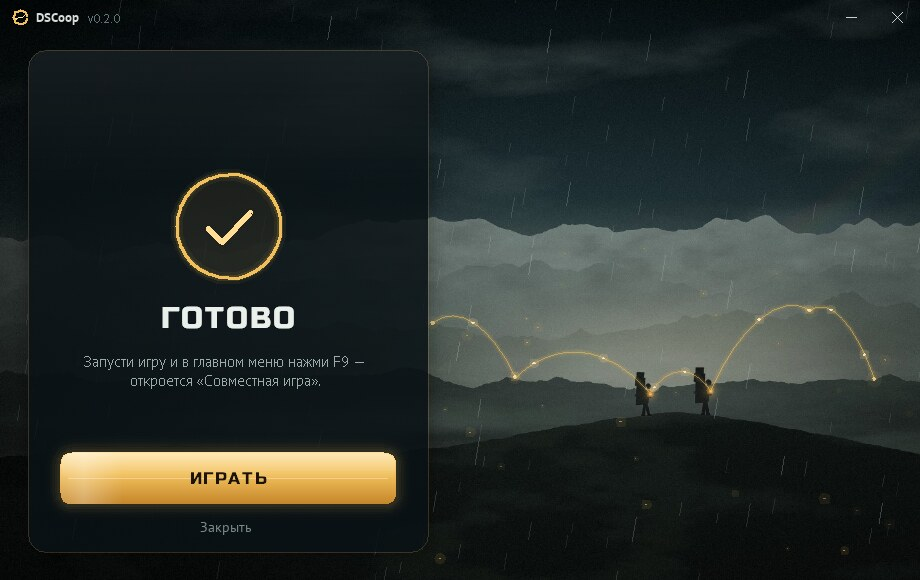
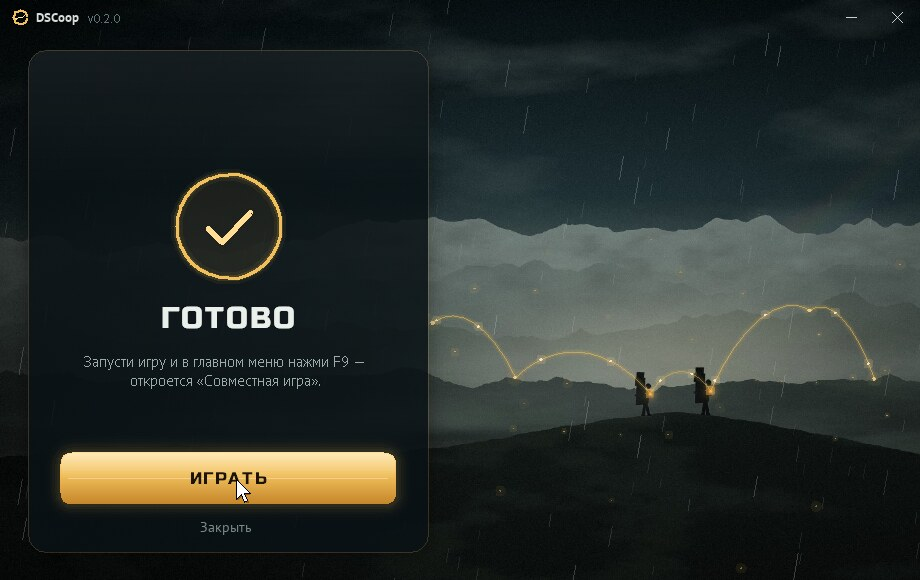
Установщик: запись демо-видео и аккуратное сокращение пути
- DSCoopSetup.exe /preview=DIR рисует сценарий игрока (курсор, ввод ника,
  установка, «Готово») ровно в 30 кадров в секунду в PNG, ничего не ставя.
- scripts/record-installer-demo.sh: запись под Wine + Xvfb, кадры на фоне
  рабочего стола со скруглёнными углами и тенью (tools/art/compose_demo.py),
  MP4 и GIF через ffmpeg.
- Путь к игре в карточке сокращается по папкам одинаково на Windows и Wine.
- Скриншоты в docs/img обновлены.

Claude-Session: https://claude.ai/code/session_01SfMFk6cMkM7MvqkwSyYva5

Changed region(s): [[0.0609, 0.7759, 0.1217, 0.869], [0.7609, 0.6517, 0.7913, 0.6828], [0.2435, 0.8379, 0.2739, 0.869]]

diff --git a/src/installer/win/ui.cpp b/src/installer/win/ui.cpp
@@ -298,6 +298,14 @@ struct App {
     std::array<float, 5> pulse{};
     std::mt19937 rng{20261029};
 
+    // /preview: deterministic demo recording (scripted cursor, simulated install, frames to PNG)
+    bool preview = false;
+    float cursorX = 780, cursorY = 470;
+    bool cursorDown = false;
+    int previewFocus = kNone;
+    float previewWorkerStart = -1;
+    std::unordered_map<std::wstring, std::wstring> fitCache;
+
     // gdi+
     ULONG_PTR gdipToken = 0;
     std::unique_ptr<Fonts> fonts;
@@ -589,6 +597,41 @@ void drawRain(Graphics& gr) {
 }
 
 // =============================================================================== widgets
+std::wstring editText(HWND e) {
+    const int n = GetWindowTextLengthW(e);
+    std::wstring s(static_cast<size_t>(n), L'\0');
+    GetWindowTextW(e, s.data(), n + 1);
+    return s;
+}
+
+/// "D:\…\common\DEATH STRANDING" style shortening that works the same on Windows and Wine.
+std::wstring fitPath(Graphics& gr, const std::wstring& s, const Font* f, float maxW) {
+    auto it = g.fitCache.find(s);
+    if (it != g.fitCache.end()) return it->second;
+    auto width = [&](const std::wstring& t) {
+        RectF b;
+        gr.MeasureString(t.c_str(), static_cast<INT>(t.size()), f, PointF(0, 0), &b);
+        return b.Width;
+    };
+    std::wstring out = s;
+    if (width(s) > maxW) {
+        const std::wstring head = s.substr(0, std::min<size_t>(3, s.size()));
+        out = head + L"…";
+        bool found = false;
+        for (size_t cut = 3; cut < s.size() && !found; ++cut) {  // prefer whole folder names: "D:\…\common\GAME"
+            if (s[cut - 1] != L'\\' && s[cut - 1] != L'/') continue;
+            std::wstring t = head + L"…\\" + s.substr(cut);
+            if (width(t) <= maxW) { out = t; found = true; }
+        }
+        for (size_t cut = 3; cut < s.size() && !found; ++cut) {
+            std::wstring t = head + L"…" + s.substr(cut);
+            if (width(t) <= maxW) { out = t; found = true; }
+        }
+    }
+    g.fitCache[s] = out;
+    return out;
+}
+
 void addHit(int id, const R& r) { g.hits.emplace_back(id, r); }
 float hov(int id) { return g.hover[static_cast<size_t>(id)].v; }
 
@@ -689,6 +732,20 @@ void field(Graphics& gr, int id, const R& r, const std::wstring& label, const st
     fillRound(gr, r, 10, bg);
     const float h = hov(id);
     strokeRound(gr, r, 10, C(focus > 0.5f ? kGold : 0xFFFFFF, focus > 0.5f ? 0.75f * a : (0.12f + 0.12f * h) * a), 1.f);
+    if (g.preview) {  // edit controls are separate windows: draw their content into the recorded frame
+        const std::wstring v = editText(id == kField1 ? g.editNick : g.editRelay);
+        const bool cue = v.empty() && id == kField2;
+        const std::wstring shown = cue ? L"relay.example.com:27000" : v;
+        SolidBrush tb(C(cue ? kFaint : kText, a));
+        gr.DrawString(shown.c_str(), static_cast<INT>(shown.size()), g.fonts->body15.get(), PointF(r.x + 13, r.y + 11), &tb);
+        if (focus > 0.5f && std::fmod(g.t, 1.0f) < 0.55f) {
+            RectF b;
+            gr.MeasureString(v.c_str(), static_cast<INT>(v.size()), g.fonts->body15.get(), PointF(0, 0), &b);
+            Pen caret(C(kText, a), 1.2f);
+            const float cx = r.x + 13 + (v.empty() ? 2.f : b.Width - 2.f);
+            gr.DrawLine(&caret, cx, r.y + 11, cx, r.y + 31);
+        }
+    }
 }
 
 // =============================================================================== state helpers
@@ -704,13 +761,6 @@ void goPage(Page p) {
     if (g.page == p && !g.switching) return;
     g.nextPage = p;
     g.switching = true;
-}
-
-std::wstring editText(HWND e) {
-    const int n = GetWindowTextLengthW(e);
-    std::wstring s(static_cast<size_t>(n), L'\0');
-    GetWindowTextW(e, s.data(), n + 1);
-    return s;
 }
 
 void placeEdits() {
@@ -794,6 +844,19 @@ bool preflight(bool uninstalling) {
 
 void doInstall() {
     if (g.busy) return;
+    if (g.preview) {  // demo: simulated install, nothing touches the disk
+        g.busy = true;
+        g.uninstalling = false;
+        g.workerStep = -1;
+        g.workerDone = false;
+        g.shownStep = -1;
+        g.lastStepTime = g.t;
+        g.allDoneTime = -1;
+        g.strandFill = Tw{};
+        g.previewWorkerStart = g.t;
+        goPage(Page::Progress);
+        return;
+    }
     refreshState();
     if (g.st.installed && compareVersions(g.st.version, DSCOOP_VERSION_STRING) > 0 && !(g.replaceNewerArmed && g.t - g.replaceArmTime < 8)) {
         g.replaceNewerArmed = true;
@@ -843,6 +906,7 @@ void activate(int id) {
         case kPrimary:
             if (g.page == Page::Welcome) { g.confirmUninstall ? doUninstall() : doInstall(); }
             else if (g.page == Page::Done) {
+                if (g.preview) break;
                 if (!g.doneIsUninstall) { win::launchGame(g.game ? g.game->appId : ""); g.pendingCloseAt = g.t + 0.7f; }
                 else requestClose();
             } else if (g.page == Page::Error) { refreshState(); goPage(Page::Welcome); }
@@ -913,8 +977,8 @@ void drawGameCard(Graphics& gr, float a) {
     gr.FillEllipse(&core, card.x + 18 - 4.f, card.y + 25 - 4.f, 8.f, 8.f);
     text(gr, title, g.fonts->bodyBold15.get(), C(kText, a), {card.x + 34, card.y + 14, 200, 22});
     link(gr, kChange, card.x + card.w - 14, card.y + 15, g.gameDir.empty() ? S->choose : S->change, a, true);
-    text(gr, sub, g.fonts->small12.get(), C(kFaint, a), {card.x + 34, card.y + 37, card.w - 48, 18}, StringAlignmentNear, StringAlignmentNear, false,
-         StringTrimmingEllipsisPath);
+    if (!g.gameDir.empty()) sub = fitPath(gr, sub, g.fonts->small12.get(), card.w - 52);
+    text(gr, sub, g.fonts->small12.get(), C(kFaint, a), {card.x + 34, card.y + 37, card.w - 48, 18});
     std::wstring state = S->notInstalled;
     uint32_t sc = kFaint;
     if (g.st.installed) { state = std::wstring(S->installedState) + W(g.st.version); sc = kLink; }
@@ -1190,6 +1254,24 @@ void render(HDC hdc) {
     gr.Restore(st);
     drawToast(gr);
     drawTitleBar(gr);
+    if (g.preview) {  // the scripted mouse pointer
+        GraphicsState cs = gr.Save();
+        gr.TranslateTransform(g.cursorX, g.cursorY);
+        const float k = g.cursorDown ? 0.88f : 1.f;
+        gr.ScaleTransform(k * 1.15f, k * 1.15f);
+        PointF arrow[7] = {PointF(0, 0), PointF(0, 17), PointF(4.2f, 13.2f), PointF(7.2f, 19.6f), PointF(9.8f, 18.4f), PointF(6.9f, 12.2f), PointF(12.2f, 12.2f)};
+        SolidBrush shadow(C(0x000000, 0.35f));
+        GraphicsState ss = gr.Save();
+        gr.TranslateTransform(1.2f, 1.6f);
+        gr.FillPolygon(&shadow, arrow, 7);
+        gr.Restore(ss);
+        SolidBrush white(C(0xFFFFFF, 1));
+        gr.FillPolygon(&white, arrow, 7);
+        Pen outline(C(0x000000, 1), 1.f);
+        outline.SetLineJoin(LineJoinRound);
+        gr.DrawPolygon(&outline, arrow, 7);
+        gr.Restore(cs);
+    }
 
     BitBlt(hdc, 0, 0, w, h, g.memDC, 0, 0, SRCCOPY);
 }
@@ -1221,8 +1303,17 @@ void tick(float dt) {
         g.hover[static_cast<size_t>(i)].step(dt, 14.f);
     }
     const HWND focus = GetFocus();
-    g.focusNick.target = focus == g.editNick ? 1.f : 0.f;
-    g.focusRelay.target = focus == g.editRelay ? 1.f : 0.f;
+    g.focusNick.target = (g.preview ? g.previewFocus == kField1 : focus == g.editNick) ? 1.f : 0.f;
+    g.focusRelay.target = (g.preview ? g.previewFocus == kField2 : focus == g.editRelay) ? 1.f : 0.f;
+    if (g.preview && g.previewWorkerStart >= 0 && !g.workerDone) {
+        static const wchar_t* kLines[] = {L"saves backed up (2 MB) -> D:\\SteamLibrary\\...\\dscoop\\backups\\saves_install",
+                                          L"installed version.dll (3 MB)", L"installed dscoop/plugins/DSCoop.dll (4 MB)",
+                                          L"DSCoop 0.2.0 installed"};
+        const int k = std::min(3, static_cast<int>((g.t - g.previewWorkerStart) / 0.35f));
+        g.workerStep = k;
+        g.lastLog = kLines[k];
+        if (g.t - g.previewWorkerStart > 1.5f) { g.workerDone = true; g.workerOk = true; }
+    }
     g.focusNick.step(dt, 14.f);
     g.focusRelay.step(dt, 14.f);
     g.checkAnim.target = g.backup ? 1.f : 0.f;
@@ -1422,6 +1513,69 @@ void detectInitial() {
     if (g.args.uninstall && !g.args.autostart) g.confirmUninstall = true;
 }
 
+// =============================================================================== preview recording
+struct Key { float t, x, y; };
+
+int pngEncoder(CLSID* clsid) {
+    UINT num = 0, size = 0;
+    GetImageEncodersSize(&num, &size);
+    if (!size) return -1;
+    std::vector<uint8_t> buf(size);
+    auto* info = reinterpret_cast<ImageCodecInfo*>(buf.data());
+    GetImageEncoders(num, size, info);
+    for (UINT i = 0; i < num; ++i)
+        if (wcscmp(info[i].MimeType, L"image/png") == 0) { *clsid = info[i].Clsid; return static_cast<int>(i); }
+    return -1;
+}
+
+/// Renders the player journey at exactly 30 fps into DIR\frame_NNNN.png. Used for README/demo videos
+/// (scripts/record-installer-demo.sh). Nothing is installed: the progress is simulated.
+int runPreview() {
+    CLSID png;
+    if (pngEncoder(&png) < 0) return 1;
+    std::error_code ec;
+    fs::create_directories(g.args.preview, ec);
+    const Key path[] = {{0.0f, 790, 470}, {2.3f, 790, 470}, {3.1f, 236, 311}, {4.8f, 236, 311}, {5.7f, 236, 479},
+                        {7.0f, 236, 479}, {7.9f, 700, 300}, {11.4f, 700, 300}, {12.2f, 236, 479}, {15.0f, 236, 479}};
+    const float fps = 30.f, length = 15.0f;
+    const std::wstring typed = L"Фрэджайл";
+    HDC dc = GetDC(g.wnd);
+    for (int f = 0; f < static_cast<int>(length * fps); ++f) {
+        const float t = static_cast<float>(f) / fps;
+        // cursor path
+        for (size_t i = 0; i + 1 < std::size(path); ++i) {
+            if (t >= path[i].t && t <= path[i + 1].t) {
+                const float k = easeInOut((t - path[i].t) / std::max(0.001f, path[i + 1].t - path[i].t));
+                g.cursorX = path[i].x + (path[i + 1].x - path[i].x) * k;
+                g.cursorY = path[i].y + (path[i + 1].y - path[i].y) * k;
+            }
+        }
+        g.hot = hitAt(g.cursorX, g.cursorY);
+        auto clickAt = [&](float when) { return t >= when && t < when + 0.14f; };
+        g.cursorDown = clickAt(3.2f) || clickAt(7.0f);
+        g.pressed = g.cursorDown ? g.hot : kNone;
+        if (f == static_cast<int>(3.34f * fps)) { g.previewFocus = kField1; SetWindowTextW(g.editNick, L""); }
+        if (t > 3.5f && t < 4.6f) {  // typing a nickname
+            const size_t n = std::min(typed.size(), static_cast<size_t>((t - 3.5f) * 9.f));
+            SetWindowTextW(g.editNick, typed.substr(0, n).c_str());
+        }
+        if (f == static_cast<int>(5.0f * fps)) g.previewFocus = kNone;
+        if (f == static_cast<int>(7.14f * fps)) activate(kPrimary);
+        tick(1.f / fps);
+        render(dc);
+        SelectObject(g.memDC, g.memOld);  // GDI+ must not read a bitmap that is selected into a DC
+        {
+            Bitmap frame(g.memBmp, nullptr);
+            wchar_t name[32];
+            swprintf(name, 32, L"frame_%04d.png", f);
+            frame.Save((fs::path(g.args.preview) / name).wstring().c_str(), &png, nullptr);
+        }
+        SelectObject(g.memDC, g.memBmp);
+    }
+    ReleaseDC(g.wnd, dc);
+    return 0;
+}
+
 int run(HINSTANCE inst, int show, const win::Args& args) {
     g.inst = inst;
     g.args = args;
@@ -1483,6 +1637,18 @@ int run(HINSTANCE inst, int show, const win::Args& args) {
     SendMessageW(g.editRelay, EM_SETCUEBANNER, TRUE, reinterpret_cast<LPARAM>(L"relay.example.com:27000"));
 
     detectInitial();
+    if (!g.args.preview.empty()) {
+        g.preview = true;
+        g.motion = true;
+        const int rc = runPreview();
+        DestroyWindow(g.wnd);
+        g.bgCache.reset();
+        g.hero.reset();
+        g.logoPath.reset();
+        g.fonts.reset();
+        GdiplusShutdown(g.gdipToken);
+        return rc;
+    }
     g.last = std::chrono::steady_clock::now();
     SetTimer(g.wnd, 1, 15, nullptr);
     ShowWindow(g.wnd, show);

diff --git a/tools/art/compose_demo.py b/tools/art/compose_demo.py
@@ -1,0 +1,59 @@
+#!/usr/bin/env python3
+"""Put recorded installer frames (DSCoopSetup.exe /preview=DIR) on a desktop-like background with
+rounded corners and a soft shadow, the way the window looks on Windows 11.
+
+Usage: compose_demo.py FRAMES_DIR OUT_DIR
+Writes OUT_DIR/f_NNNN.png (1280x800). Encode with ffmpeg (see scripts/record-installer-demo.sh).
+"""
+import glob
+import os
+import sys
+
+import numpy as np
+from PIL import Image, ImageDraw, ImageFilter
+
+src, out = sys.argv[1], sys.argv[2]
+os.makedirs(out, exist_ok=True)
+CW, CH = 1280, 800
+frames = sorted(glob.glob(os.path.join(src, "frame_*.png")))
+first = Image.open(frames[0])
+WW, WH = first.size
+X, Y = (CW - WW) // 2, (CH - WH) // 2 - 10
+
+# Desktop wallpaper: deep blue-teal gradient with soft colour blooms (neutral, no branding).
+yy, xx = np.mgrid[0:CH, 0:CW].astype(np.float64)
+base = np.zeros((CH, CW, 3))
+top, bot = np.array([18, 30, 44]) / 255, np.array([8, 12, 20]) / 255
+t = (yy / CH)[..., None]
+base = top * (1 - t) + bot * t
+for cx, cy, r, col, a in ((0.22, 0.25, 0.45, (40, 110, 140), 0.55), (0.82, 0.75, 0.5, (150, 110, 60), 0.35), (0.65, 0.15, 0.35, (70, 60, 130), 0.3)):
+    d = ((xx / CW - cx) ** 2 + (yy / CH - cy) ** 2) / r ** 2
+    base = base + (np.array(col) / 255) * a * np.exp(-d * 2.2)[..., None]
+wall = Image.fromarray((np.clip(base, 0, 1) * 255).astype(np.uint8), "RGB")
+
+radius = 9
+mask = Image.new("L", (WW, WH), 0)
+ImageDraw.Draw(mask).rounded_rectangle([0, 0, WW - 1, WH - 1], radius=radius, fill=255)
+shadow = Image.new("L", (CW, CH), 0)
+ImageDraw.Draw(shadow).rounded_rectangle([X - 2, Y + 10, X + WW + 2, Y + WH + 18], radius=radius + 6, fill=150)
+shadow = shadow.filter(ImageFilter.GaussianBlur(26))
+desk = wall.copy()
+desk.paste(Image.new("RGB", (CW, CH), (0, 0, 0)), (0, 0), shadow)
+
+fade_frames = 14  # the window fades in on open (layered window alpha is not in the recorded bitmap)
+for i, path in enumerate(frames):
+    win = Image.open(path).convert("RGB")
+    canvas = wall.copy() if i < fade_frames else desk.copy()
+    if i < fade_frames:
+        k = (i + 1) / fade_frames
+        k = 1 - (1 - k) ** 3
+        sh = shadow.point(lambda v, k=k: int(v * k))
+        canvas.paste(Image.new("RGB", (CW, CH), (0, 0, 0)), (0, 0), sh)
+        m = mask.point(lambda v, k=k: int(v * k))
+    else:
+        m = mask
+    canvas.paste(win, (X, Y), m)
+    # 1px light border like Windows 11 windows
+    ImageDraw.Draw(canvas).rounded_rectangle([X, Y, X + WW - 1, Y + WH - 1], radius=radius, outline=(70, 80, 84))
+    canvas.save(os.path.join(out, f"f_{i:04d}.png"))
+print(f"{len(frames)} frames -> {out}")

diff --git a/src/installer/win/main_win.cpp b/src/installer/win/main_win.cpp
@@ -4,6 +4,7 @@
 //     DSCoopSetup.exe /S [/dir=PATH] [/nick=NAME] [/relay=HOST[:PORT]] [/nobackup] [/log=FILE]
 //     DSCoopSetup.exe /S /uninstall [/dir=PATH] [/purge]
 //   Exit codes: 0 ok, 1 error, 2 game not found, 3 game is running.
+//   Demo recording: DSCoopSetup.exe /preview=DIR (scripted session -> DIR\frame_NNNN.png, installs nothing).
 #include <fstream>
 
 #include "sys.hpp"

diff --git a/src/installer/win/sys.hpp b/src/installer/win/sys.hpp
@@ -25,6 +25,7 @@ struct Args {
     bool noBackup = false;
     bool autostart = false;  // elevated relaunch: start the action immediately
     std::wstring dir, nick, relay, logFile;
+    std::wstring preview;    // /preview=DIR: render a scripted demo to DIR\frame_NNNN.png (docs/marketing), no install
 };
 Args parseArgs();
 

diff --git a/src/installer/win/sys.cpp b/src/installer/win/sys.cpp
@@ -48,6 +48,7 @@ Args parseArgs() {
         else if (auto n = val(L"/nick=")) a.nick = *n;
         else if (auto r = val(L"/relay=")) a.relay = *r;
         else if (auto l = val(L"/log=")) a.logFile = *l;
+        else if (auto pv = val(L"/preview=")) a.preview = *pv;
     }
     if (argv) LocalFree(argv);
     return a;

diff --git a/CHANGELOG.md b/CHANGELOG.md
@@ -15,6 +15,9 @@
 - Встроенные шрифты Russo One и PT Sans (OFL), иконка приложения. Учитывается настройка
   Windows «Показывать анимацию»: если она выключена, окно статичное.
 - Удаление теперь убирает и копию установщика из папки `dscoop`.
+- Режим `DSCoopSetup.exe /preview=DIR` и `scripts/record-installer-demo.sh`: записывают
+  демо-видео установщика с ровными 30 кадрами в секунду, ничего не устанавливая.
+- Длинный путь к игре сокращается по папкам («D:\…\DEATH STRANDING DIRECTORS CUT»).
 
 ### Добавлено — установщик
 - **DSCoopSetup.exe**: один файл, внутри загрузчик, плагин и offsets.json. Сам находит игру

diff --git a/README.md b/README.md
@@ -62,6 +62,7 @@ scripts/build-linux.sh        # ctest + pytest
 scripts/e2e-local.sh          # релей + хост + 2 гостя на localhost
 IMGUI_DIR=/path/to/imgui scripts/build-mingw.sh   # DSCoopSetup.exe, version.dll, DSCoop.dll, testclient.exe через mingw-w64
 scripts/test-installer-wine.sh                    # установщик под Wine: 6 сценариев игрока
+scripts/record-installer-demo.sh                  # демо-видео установщика (MP4 + GIF) в build/demo/
 ```
 
 ## Быстрый старт без игры
